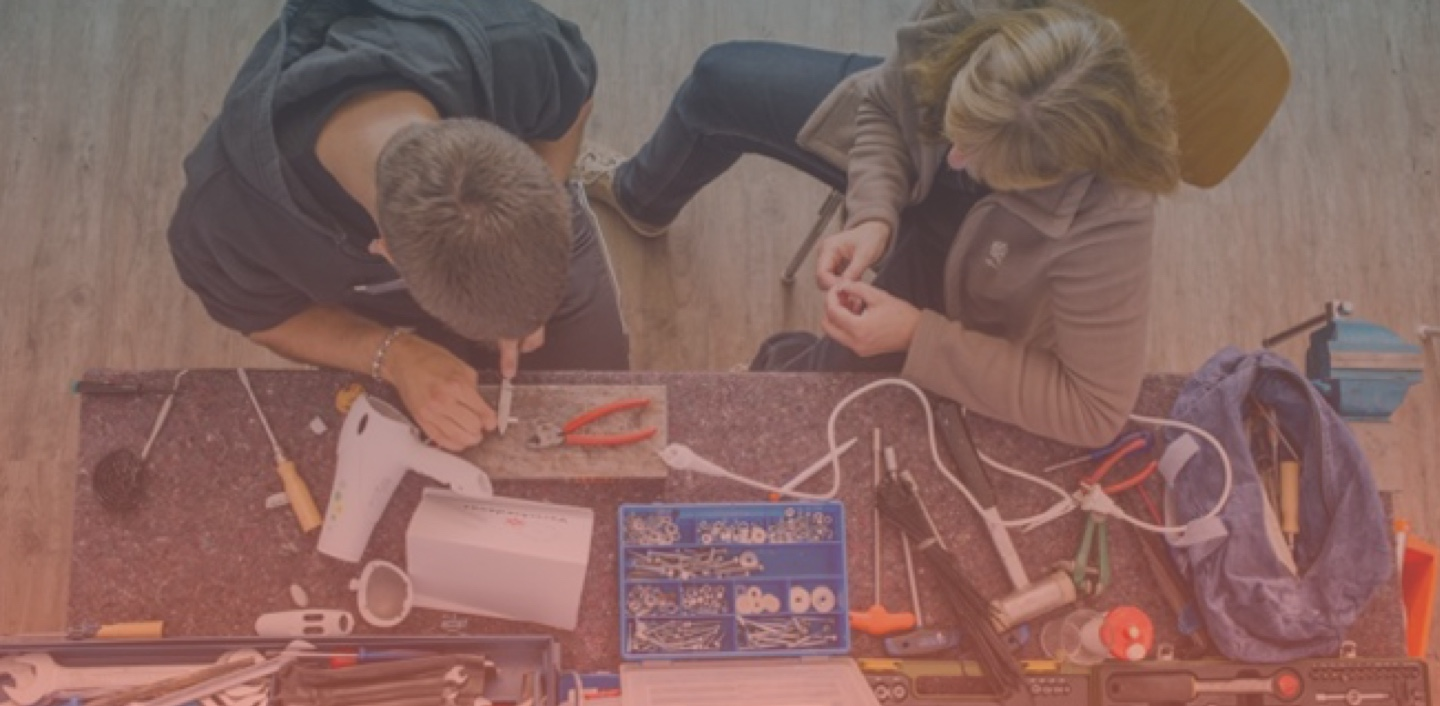
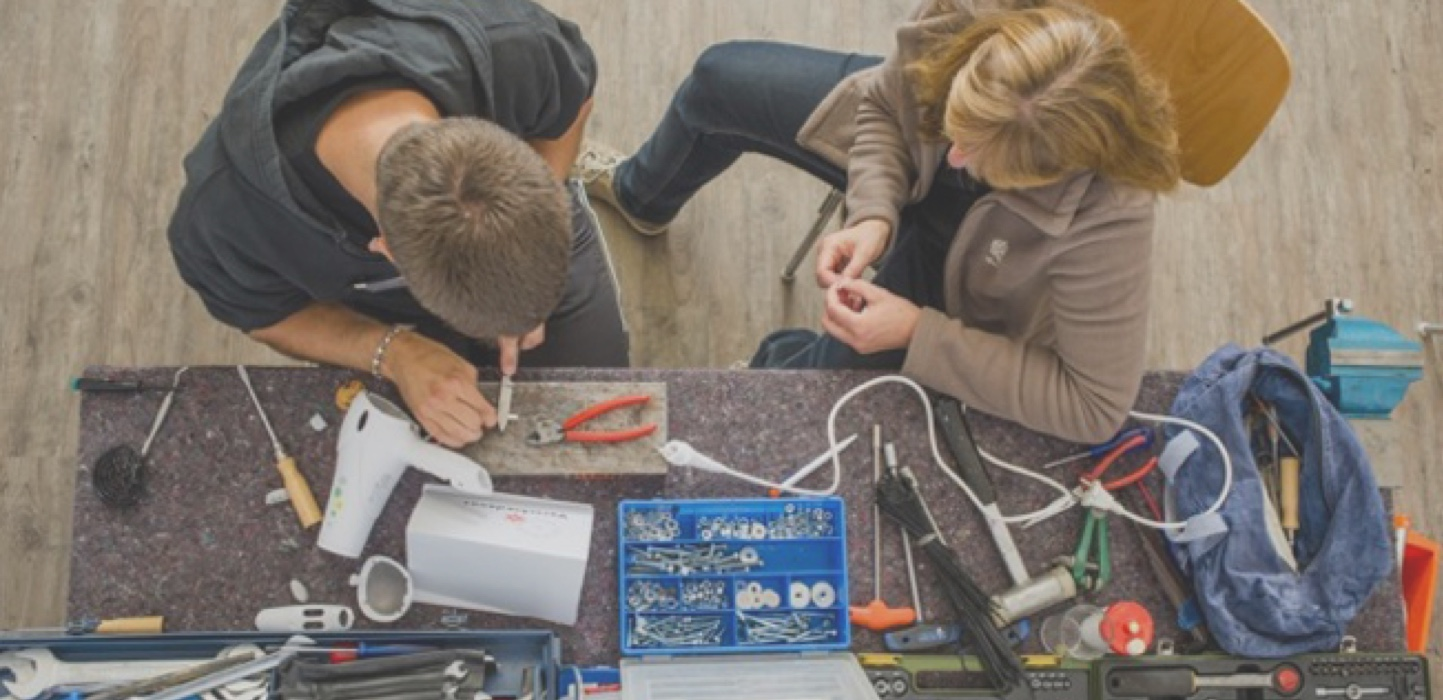
estilos portadas img+degradado

diff --git a/dist/css/main.css b/dist/css/main.css
@@ -2087,6 +2087,11 @@ a:hover {
       bottom: 6rem;
       left: 0;
       display: none; }
+    .btn_blog_arrow--back {
+      /* IE 9 */
+      -webkit-transform: rotate(90deg);
+      /* Chrome, Safari, Opera */
+      transform: rotate(90deg); }
   .btn_evento {
     position: absolute;
     bottom: 0; }
@@ -2094,7 +2099,14 @@ a:hover {
     position: fixed;
     right: 0;
     bottom: 6rem;
-    z-index: 1; }
+    z-index: 1;
+    padding-left: 1rem;
+    padding-right: 1rem; }
+    .btn_subir_arrow--top {
+      /* IE 9 */
+      -webkit-transform: rotate(180deg);
+      /* Chrome, Safari, Opera */
+      transform: rotate(180deg); }
   .btn:hover {
     background-color: #F28D7E;
     color: #fff;
@@ -2812,8 +2824,14 @@ footer {
       text-align: left; } }
 
 .portada-index {
-  background: url(../img/index-img.jpg);
-  background-size: cover;
+  /* FF3.6-15 */
+  background: -webkit-linear-gradient(top, rgba(43, 62, 80, 0.6) 0%, rgba(248, 92, 69, 0.6) 100%), url(../img/index-img.jpg);
+  /* Chrome10-25,Safari5.1-6 */
+  background: linear-gradient(to bottom, rgba(43, 62, 80, 0.6) 0%, rgba(248, 92, 69, 0.6) 100%), url(../img/index-img.jpg);
+  /* W3C, IE10+, FF16+, Chrome26+, Opera12+, Safari7+ */
+  filter: progid:DXImageTransform.Microsoft.gradient( startColorstr='#992b3e50', endColorstr='#99f85c45',GradientType=0 ), url(../img/index-img.jpg);
+  /* IE6-9 */
+  background-size: cover, cover;
   display: -webkit-box;
   display: -webkit-flex;
   display: -ms-flexbox;
@@ -2829,24 +2847,54 @@ footer {
       min-height: 30rem; } }
 
 .portada-donar {
-  background: url(../img/donacion-img.jpg);
-  background-size: cover; }
+  /* FF3.6-15 */
+  background: -webkit-linear-gradient(top, rgba(43, 62, 80, 0.6) 0%, rgba(248, 92, 69, 0.6) 100%), url(../img/donacion-img.jpg);
+  /* Chrome10-25,Safari5.1-6 */
+  background: linear-gradient(to bottom, rgba(43, 62, 80, 0.6) 0%, rgba(248, 92, 69, 0.6) 100%), url(../img/donacion-img.jpg);
+  /* W3C, IE10+, FF16+, Chrome26+, Opera12+, Safari7+ */
+  filter: progid:DXImageTransform.Microsoft.gradient( startColorstr='#992b3e50', endColorstr='#99f85c45',GradientType=0 ), url(../img/donacion-img.jpg);
+  /* IE6-9 */
+  background-size: cover, cover; }
 
 .portada-eventos {
-  background: url(../img/eventos-img.jpg);
-  background-size: cover; }
+  /* FF3.6-15 */
+  background: -webkit-linear-gradient(top, rgba(43, 62, 80, 0.6) 0%, rgba(248, 92, 69, 0.6) 100%), url(../img/eventos-img.jpg);
+  /* Chrome10-25,Safari5.1-6 */
+  background: linear-gradient(to bottom, rgba(43, 62, 80, 0.6) 0%, rgba(248, 92, 69, 0.6) 100%), url(../img/eventos-img.jpg);
+  /* W3C, IE10+, FF16+, Chrome26+, Opera12+, Safari7+ */
+  filter: progid:DXImageTransform.Microsoft.gradient( startColorstr='#992b3e50', endColorstr='#99f85c45',GradientType=0 ), url(../img/eventos-img.jpg);
+  /* IE6-9 */
+  background-size: cover, cover; }
 
 .portada-blog {
-  background: url(../img/blog-img.jpg);
-  background-size: cover; }
+  /* FF3.6-15 */
+  background: -webkit-linear-gradient(top, rgba(43, 62, 80, 0.6) 0%, rgba(248, 92, 69, 0.6) 100%), url(../img/blog-img.jpg);
+  /* Chrome10-25,Safari5.1-6 */
+  background: linear-gradient(to bottom, rgba(43, 62, 80, 0.6) 0%, rgba(248, 92, 69, 0.6) 100%), url(../img/blog-img.jpg);
+  /* W3C, IE10+, FF16+, Chrome26+, Opera12+, Safari7+ */
+  filter: progid:DXImageTransform.Microsoft.gradient( startColorstr='#992b3e50', endColorstr='#99f85c45',GradientType=0 ), url(../img/blog-img.jpg);
+  /* IE6-9 */
+  background-size: cover, cover; }
 
 .portada-contacto {
-  background: url(../img/contacto-img.jpg);
-  background-size: cover; }
+  /* FF3.6-15 */
+  background: -webkit-linear-gradient(top, rgba(43, 62, 80, 0.6) 0%, rgba(248, 92, 69, 0.6) 100%), url(../img/contacto-img.jpg);
+  /* Chrome10-25,Safari5.1-6 */
+  background: linear-gradient(to bottom, rgba(43, 62, 80, 0.6) 0%, rgba(248, 92, 69, 0.6) 100%), url(../img/contacto-img.jpg);
+  /* W3C, IE10+, FF16+, Chrome26+, Opera12+, Safari7+ */
+  filter: progid:DXImageTransform.Microsoft.gradient( startColorstr='#992b3e50', endColorstr='#99f85c45',GradientType=0 ), url(../img/contacto-img.jpg);
+  /* IE6-9 */
+  background-size: cover, cover; }
 
 .portada-proyecto {
-  background: url(../img/nosotros-img.jpg);
-  background-size: cover; }
+  /* FF3.6-15 */
+  background: -webkit-linear-gradient(top, rgba(43, 62, 80, 0.6) 0%, rgba(248, 92, 69, 0.6) 100%), url(../img/nosotros-img.jpg);
+  /* Chrome10-25,Safari5.1-6 */
+  background: linear-gradient(to bottom, rgba(43, 62, 80, 0.6) 0%, rgba(248, 92, 69, 0.6) 100%), url(../img/nosotros-img.jpg);
+  /* W3C, IE10+, FF16+, Chrome26+, Opera12+, Safari7+ */
+  filter: progid:DXImageTransform.Microsoft.gradient( startColorstr='#992b3e50', endColorstr='#99f85c45',GradientType=0 ), url(../img/nosotros-img.jpg);
+  /* IE6-9 */
+  background-size: cover, cover; }
 
 .divider-line {
   width: 5rem;

diff --git a/src/scss/components/_portadas.scss b/src/scss/components/_portadas.scss
@@ -1,7 +1,11 @@
 // PORTADAS
+
 .portada-index {
-	background: url(../img/index-img.jpg);
-	background-size: cover;
+	background: -moz-linear-gradient(top, $color_portada--top 0%, $color_portada--bottom 100%), url(../img/index-img.jpg); /* FF3.6-15 */
+	background: -webkit-linear-gradient(top, $color_portada--top 0%,$color_portada--bottom 100%) ,url(../img/index-img.jpg); /* Chrome10-25,Safari5.1-6 */
+	background: linear-gradient(to bottom, $color_portada--top 0%,$color_portada--bottom 100%), url(../img/index-img.jpg); /* W3C, IE10+, FF16+, Chrome26+, Opera12+, Safari7+ */
+	filter: progid:DXImageTransform.Microsoft.gradient( startColorstr='#992b3e50', endColorstr='#99f85c45',GradientType=0 ), url(../img/index-img.jpg); /* IE6-9 */
+	background-size: cover, cover;
 
 	display: flex;
   	align-items: center;
@@ -13,22 +17,37 @@
 }
 
 .portada-donar {
-	background: url(../img/donacion-img.jpg);
-	background-size: cover;
+	background: -moz-linear-gradient(top, $color_portada--top 0%, $color_portada--bottom 100%), url(../img/donacion-img.jpg); /* FF3.6-15 */
+	background: -webkit-linear-gradient(top, $color_portada--top 0%,$color_portada--bottom 100%) ,url(../img/donacion-img.jpg); /* Chrome10-25,Safari5.1-6 */
+	background: linear-gradient(to bottom, $color_portada--top 0%,$color_portada--bottom 100%), url(../img/donacion-img.jpg); /* W3C, IE10+, FF16+, Chrome26+, Opera12+, Safari7+ */
+	filter: progid:DXImageTransform.Microsoft.gradient( startColorstr='#992b3e50', endColorstr='#99f85c45',GradientType=0 ), url(../img/donacion-img.jpg); /* IE6-9 */
+	background-size: cover, cover;
 }
 .portada-eventos {
-	background: url(../img/eventos-img.jpg);
-	background-size: cover;
+	background: -moz-linear-gradient(top, $color_portada--top 0%, $color_portada--bottom 100%), url(../img/eventos-img.jpg); /* FF3.6-15 */
+	background: -webkit-linear-gradient(top, $color_portada--top 0%,$color_portada--bottom 100%) ,url(../img/eventos-img.jpg); /* Chrome10-25,Safari5.1-6 */
+	background: linear-gradient(to bottom, $color_portada--top 0%,$color_portada--bottom 100%), url(../img/eventos-img.jpg); /* W3C, IE10+, FF16+, Chrome26+, Opera12+, Safari7+ */
+	filter: progid:DXImageTransform.Microsoft.gradient( startColorstr='#992b3e50', endColorstr='#99f85c45',GradientType=0 ), url(../img/eventos-img.jpg); /* IE6-9 */
+	background-size: cover, cover;
 }
 .portada-blog {
-	background: url(../img/blog-img.jpg);
-	background-size: cover;
+	background: -moz-linear-gradient(top, $color_portada--top 0%, $color_portada--bottom 100%), url(../img/blog-img.jpg); /* FF3.6-15 */
+	background: -webkit-linear-gradient(top, $color_portada--top 0%,$color_portada--bottom 100%) ,url(../img/blog-img.jpg); /* Chrome10-25,Safari5.1-6 */
+	background: linear-gradient(to bottom, $color_portada--top 0%,$color_portada--bottom 100%), url(../img/blog-img.jpg); /* W3C, IE10+, FF16+, Chrome26+, Opera12+, Safari7+ */
+	filter: progid:DXImageTransform.Microsoft.gradient( startColorstr='#992b3e50', endColorstr='#99f85c45',GradientType=0 ), url(../img/blog-img.jpg); /* IE6-9 */
+	background-size: cover, cover;
 }
 .portada-contacto {
-	background: url(../img/contacto-img.jpg);
-	background-size: cover;
+	background: -moz-linear-gradient(top, $color_portada--top 0%, $color_portada--bottom 100%), url(../img/contacto-img.jpg); /* FF3.6-15 */
+	background: -webkit-linear-gradient(top, $color_portada--top 0%,$color_portada--bottom 100%) ,url(../img/contacto-img.jpg); /* Chrome10-25,Safari5.1-6 */
+	background: linear-gradient(to bottom, $color_portada--top 0%,$color_portada--bottom 100%), url(../img/contacto-img.jpg); /* W3C, IE10+, FF16+, Chrome26+, Opera12+, Safari7+ */
+	filter: progid:DXImageTransform.Microsoft.gradient( startColorstr='#992b3e50', endColorstr='#99f85c45',GradientType=0 ), url(../img/contacto-img.jpg); /* IE6-9 */
+	background-size: cover, cover;
 }
 .portada-proyecto {
-	background: url(../img/nosotros-img.jpg);
-	background-size: cover;
+	background: -moz-linear-gradient(top, $color_portada--top 0%, $color_portada--bottom 100%), url(../img/nosotros-img.jpg); /* FF3.6-15 */
+	background: -webkit-linear-gradient(top, $color_portada--top 0%,$color_portada--bottom 100%) ,url(../img/nosotros-img.jpg); /* Chrome10-25,Safari5.1-6 */
+	background: linear-gradient(to bottom, $color_portada--top 0%,$color_portada--bottom 100%), url(../img/nosotros-img.jpg); /* W3C, IE10+, FF16+, Chrome26+, Opera12+, Safari7+ */
+	filter: progid:DXImageTransform.Microsoft.gradient( startColorstr='#992b3e50', endColorstr='#99f85c45',GradientType=0 ), url(../img/nosotros-img.jpg); /* IE6-9 */
+	background-size: cover, cover;
 }

diff --git a/dist/post-uno.html b/dist/post-uno.html
@@ -52,7 +52,9 @@
 	    	</div>
 		</div>
 	</header>
-	<a class="btn btn_subir" id="to-header" href="#header">^</a>
+	<a class="btn btn_subir" id="to-header" href="#header">
+		<img src="img/arrow.png" class="btn_subir_arrow--top">
+	</a>
 	<main>
 		<section class="bg-color_four">
 			<div class="container-narrow">
@@ -85,7 +87,7 @@
 					</div>
 				</div>
 			</div>
-			<a class="btn btn_blog--back" href="blog.html">< Volver atrás</a>
+			<a class="btn btn_blog--back" href="blog.html"><img src="img/arrow.png" class="btn_blog_arrow--back"> Volver atrás</a>
 		</section>
 	</main>
 <!--FOOTER-->

diff --git a/src/post-uno.html b/src/post-uno.html
@@ -52,7 +52,9 @@
 	    	</div>
 		</div>
 	</header>
-	<a class="btn btn_subir" id="to-header" href="#header">^</a>
+	<a class="btn btn_subir" id="to-header" href="#header">
+		<img src="img/arrow.png" class="btn_subir_arrow--top">
+	</a>
 	<main>
 		<section class="bg-color_four">
 			<div class="container-narrow">
@@ -85,7 +87,7 @@
 					</div>
 				</div>
 			</div>
-			<a class="btn btn_blog--back" href="blog.html">< Volver atrás</a>
+			<a class="btn btn_blog--back" href="blog.html"><img src="img/arrow.png" class="btn_blog_arrow--back"> Volver atrás</a>
 		</section>
 	</main>
 <!--FOOTER-->

diff --git a/src/scss/components/_btn.scss b/src/scss/components/_btn.scss
@@ -28,6 +28,11 @@
 			left: 0;
 			display: none;
 		}
+		&_arrow--back {
+			-ms-transform: rotate(90deg); /* IE 9 */
+    		-webkit-transform: rotate(90deg); /* Chrome, Safari, Opera */
+    		transform: rotate(90deg);
+		}
 	}
 
 	&_evento {
@@ -40,6 +45,13 @@
 		right: 0;
 		bottom: 6rem;
 		z-index: 1;
+		padding-left: 1rem;
+		padding-right: 1rem;
+		&_arrow--top {
+			-ms-transform: rotate(180deg); /* IE 9 */
+    		-webkit-transform: rotate(180deg); /* Chrome, Safari, Opera */
+    		transform: rotate(180deg);
+		}
 	}
 
 	

diff --git a/src/scss/theme/_variables.scss b/src/scss/theme/_variables.scss
@@ -8,6 +8,7 @@ $desktop-hd: 1280px;
 //breakpoint especial
 $bp_footer: 979px;
 $bp_menu: 1023px;
+
 //COLORES
 $color-w: #fff; //blanco
 $color-w-op: rgba(255, 255, 255, .65);
@@ -21,6 +22,10 @@ $color-three: #F85C45; //naranja
 $color-three-l: #F28D7E; //naranja clarito
 $color-four: #E1E1E1; //color gris backgrounds
 $color-five: #F5F6F7;
+
+//portadas
+$color_portada--top: rgba(43,62,80,0.6); //azul oscuro casi negro
+$color_portada--bottom: rgba(248,92,69,0.6); //naranja obsocial fabuloso
 
 .bg{
 	&-color_w {

diff --git a/dist/proyecto.html b/dist/proyecto.html
@@ -52,7 +52,9 @@
 	    	</div>
 		</div>
 	</header>
-	<a class="btn btn_subir" id="to-header" href="#header">^</a>
+	<a class="btn btn_subir" id="to-header" href="#header">
+		<img src="img/arrow.png" class="btn_subir_arrow--top">
+	</a>
 	<main>
 		<section class="portada portada-proyecto clearfix">
 			<div class="container  js-animate">

diff --git a/src/proyecto.html b/src/proyecto.html
@@ -52,7 +52,9 @@
 	    	</div>
 		</div>
 	</header>
-	<a class="btn btn_subir" id="to-header" href="#header">^</a>
+	<a class="btn btn_subir" id="to-header" href="#header">
+		<img src="img/arrow.png" class="btn_subir_arrow--top">
+	</a>
 	<main>
 		<section class="portada portada-proyecto clearfix">
 			<div class="container  js-animate">

diff --git a/dist/contacto.html b/dist/contacto.html
@@ -52,7 +52,9 @@
 	    	</div>
 		</div>
 	</header>
-	<a class="btn btn_subir" id="to-header" href="#header">^</a>
+	<a class="btn btn_subir" id="to-header" href="#header">
+		<img src="img/arrow.png" class="btn_subir_arrow--top">
+	</a>
 	<article>
 		<section class="portada portada-contacto">
 			<div class="container js-animate">

diff --git a/src/contacto.html b/src/contacto.html
@@ -52,7 +52,9 @@
 	    	</div>
 		</div>
 	</header>
-	<a class="btn btn_subir" id="to-header" href="#header">^</a>
+	<a class="btn btn_subir" id="to-header" href="#header">
+		<img src="img/arrow.png" class="btn_subir_arrow--top">
+	</a>
 	<article>
 		<section class="portada portada-contacto">
 			<div class="container js-animate">

diff --git a/dist/index.html b/dist/index.html
@@ -52,7 +52,9 @@
 	    	</div>
 		</div>
 	</header>
-	<a class="btn btn_subir" id="to-header" href="#header">^</a>
+	<a class="btn btn_subir" id="to-header" href="#header">
+		<img src="img/arrow.png" class="btn_subir_arrow--top">
+	</a>
 <!--PORTADA-->
 	<section class="portada portada-index">
 		<div class="container js-animate">

diff --git a/src/index.html b/src/index.html
@@ -52,7 +52,9 @@
 	    	</div>
 		</div>
 	</header>
-	<a class="btn btn_subir" id="to-header" href="#header">^</a>
+	<a class="btn btn_subir" id="to-header" href="#header">
+		<img src="img/arrow.png" class="btn_subir_arrow--top">
+	</a>
 <!--PORTADA-->
 	<section class="portada portada-index">
 		<div class="container js-animate">
